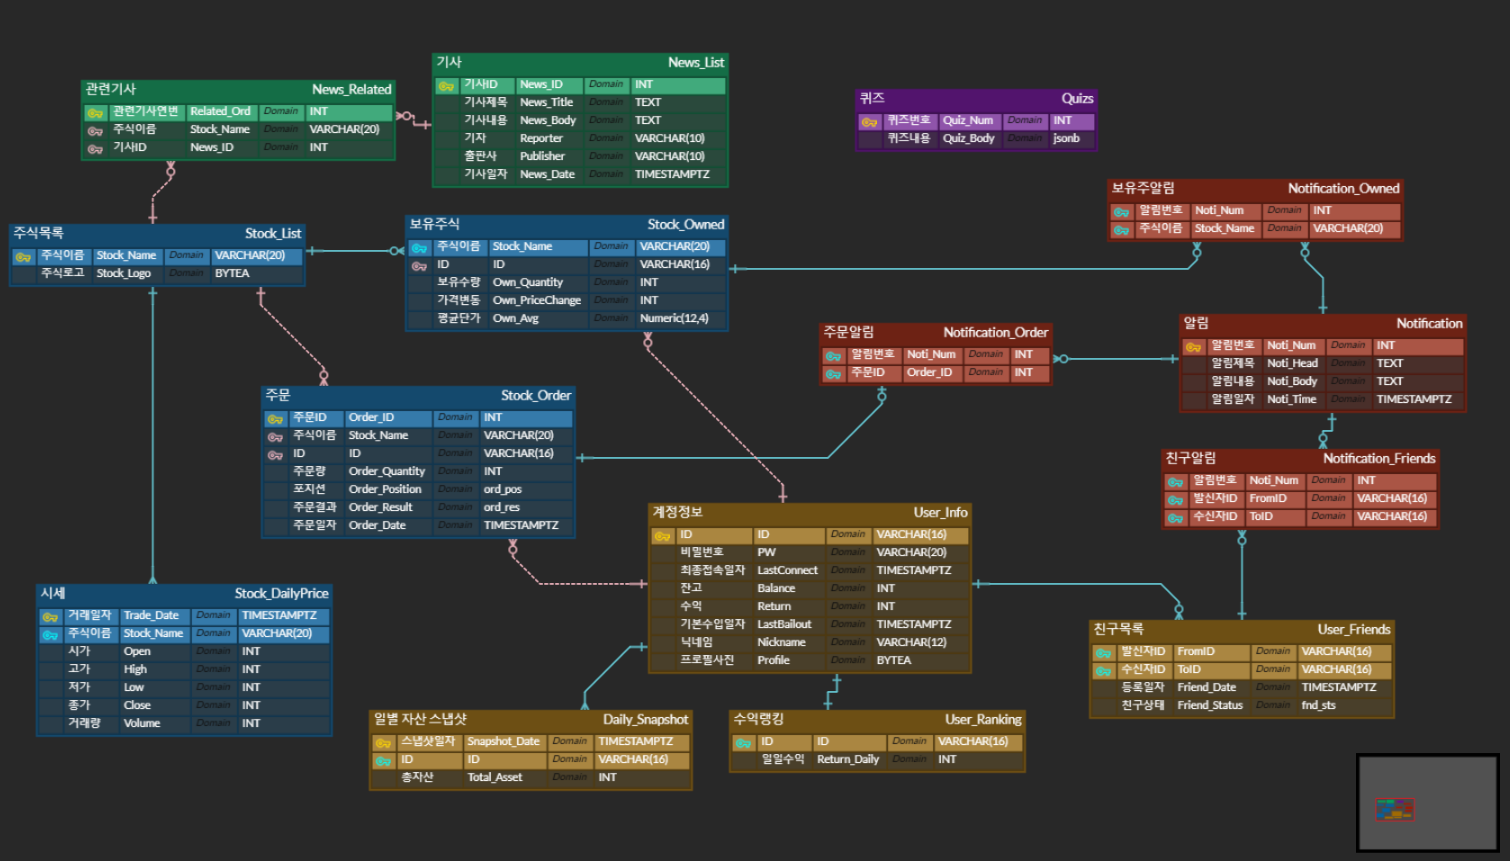
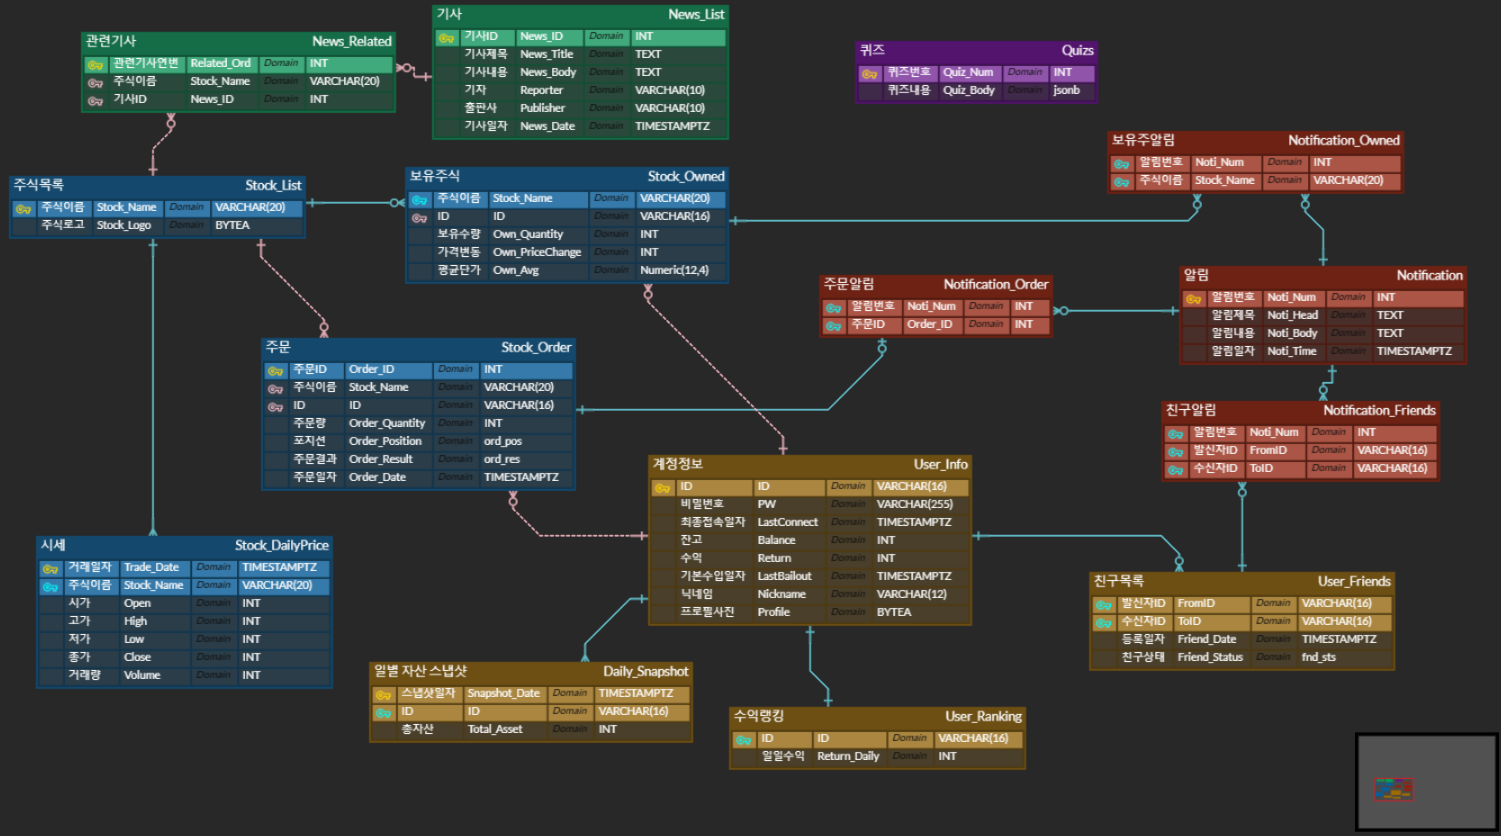
edited erd, moved ia diagram into public/images

diff --git a/README.md b/README.md
@@ -75,7 +75,7 @@
 ### IA (정보 구조도)
 
 <p align="center">
-  <img src="images/IA.png" width="900" alt="IA Diagram">
+  <img src="./public/image/IA.png" width="900" alt="IA Diagram">
 </p>
 
 ### 화면 설계 (Figma)